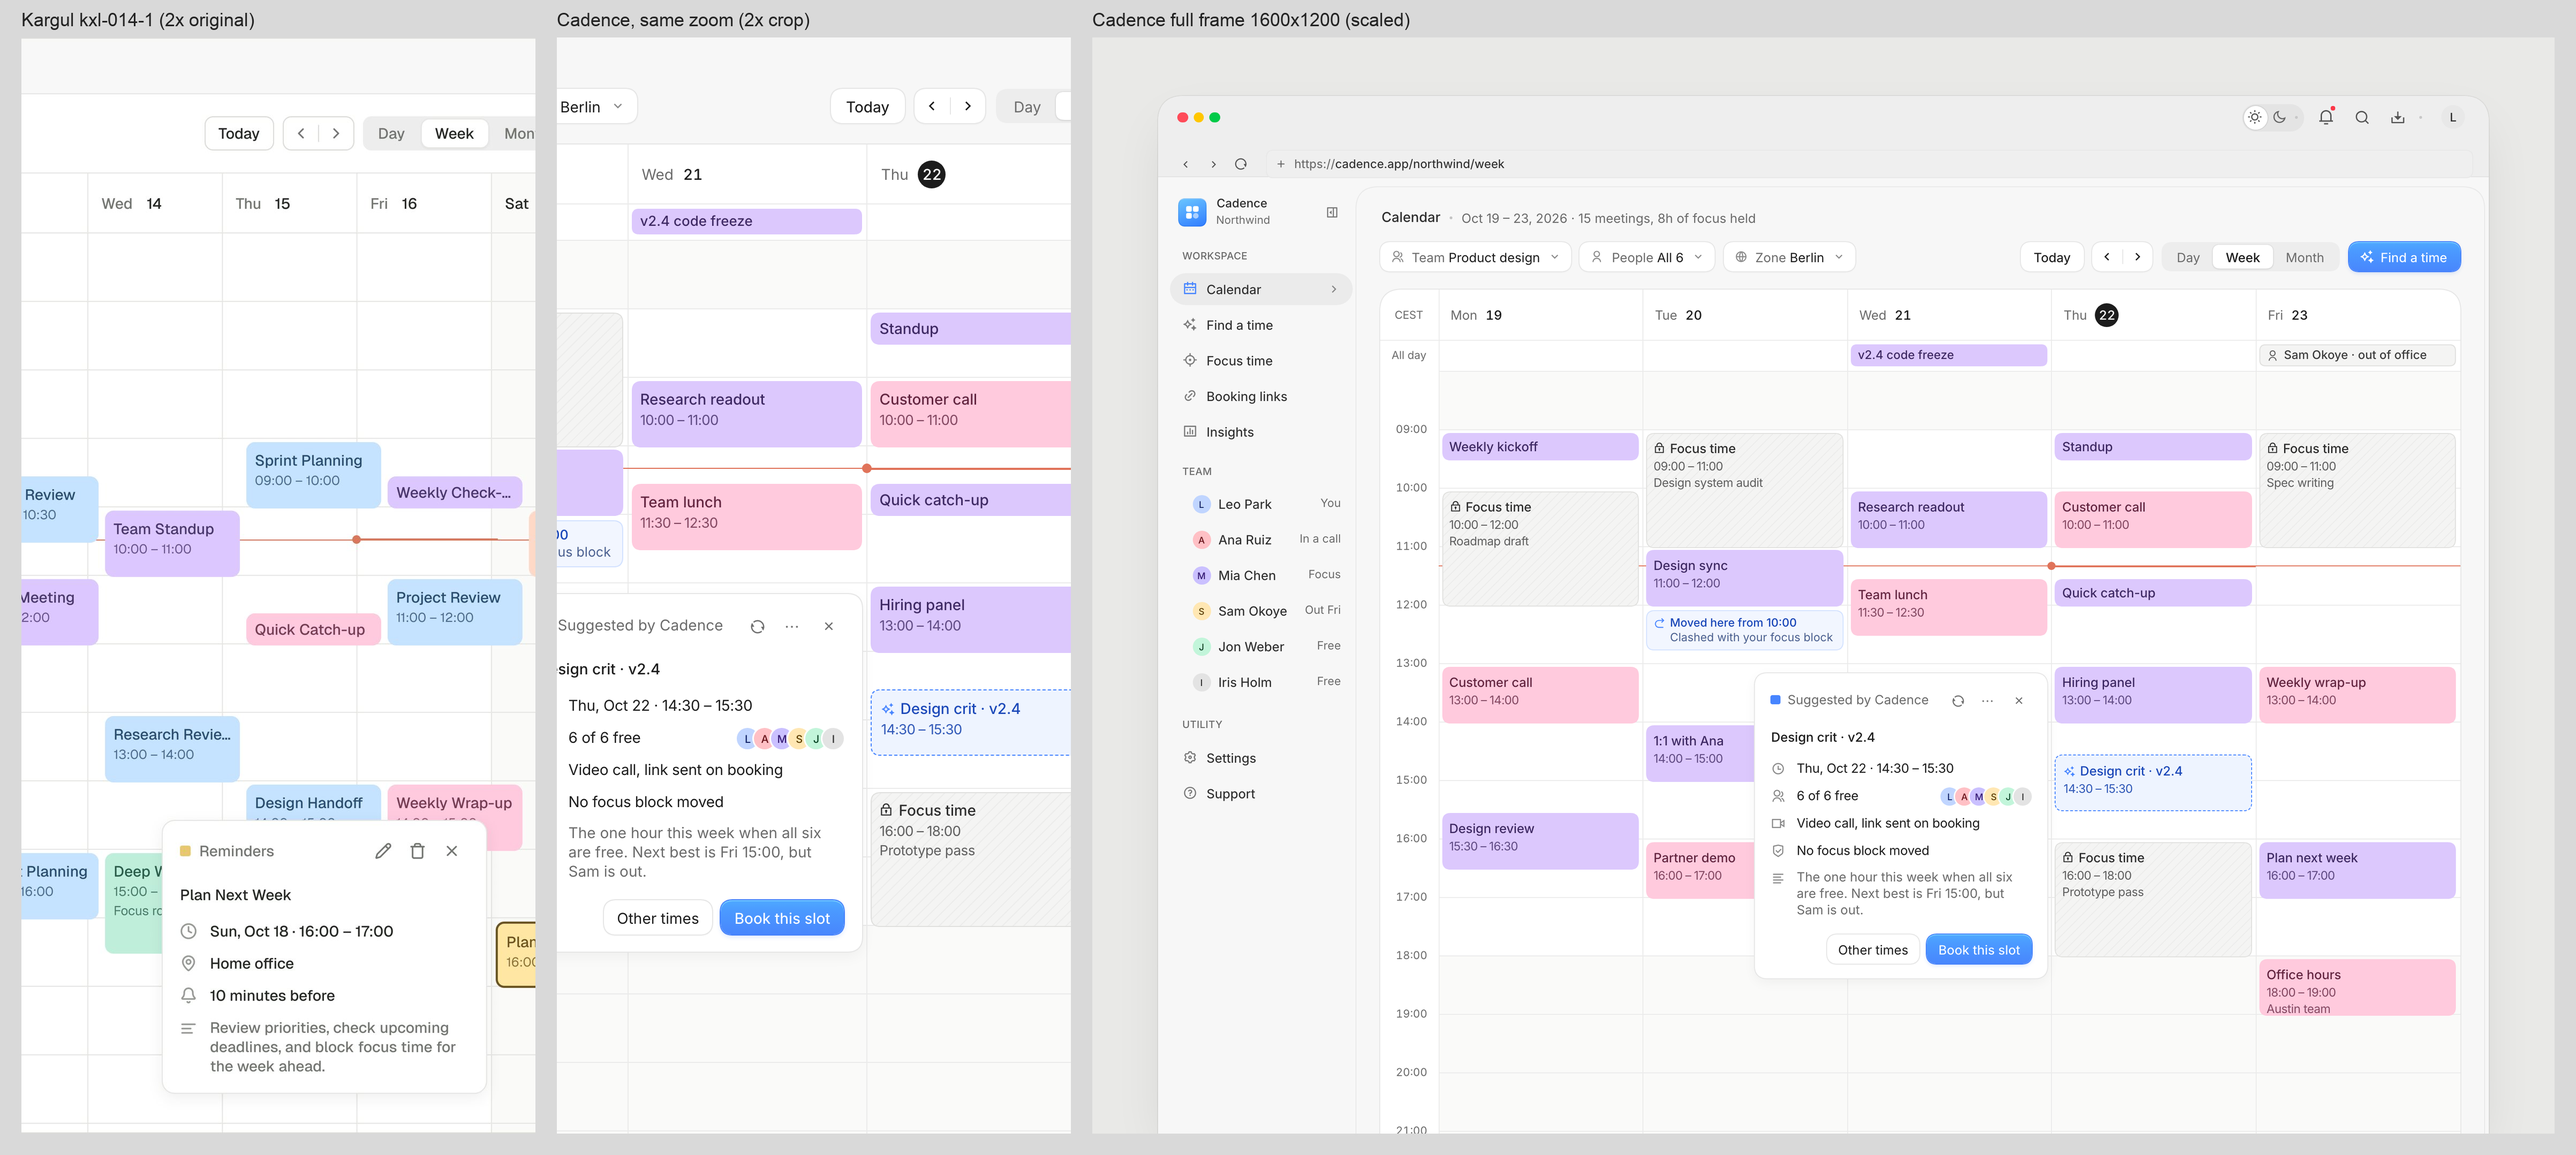
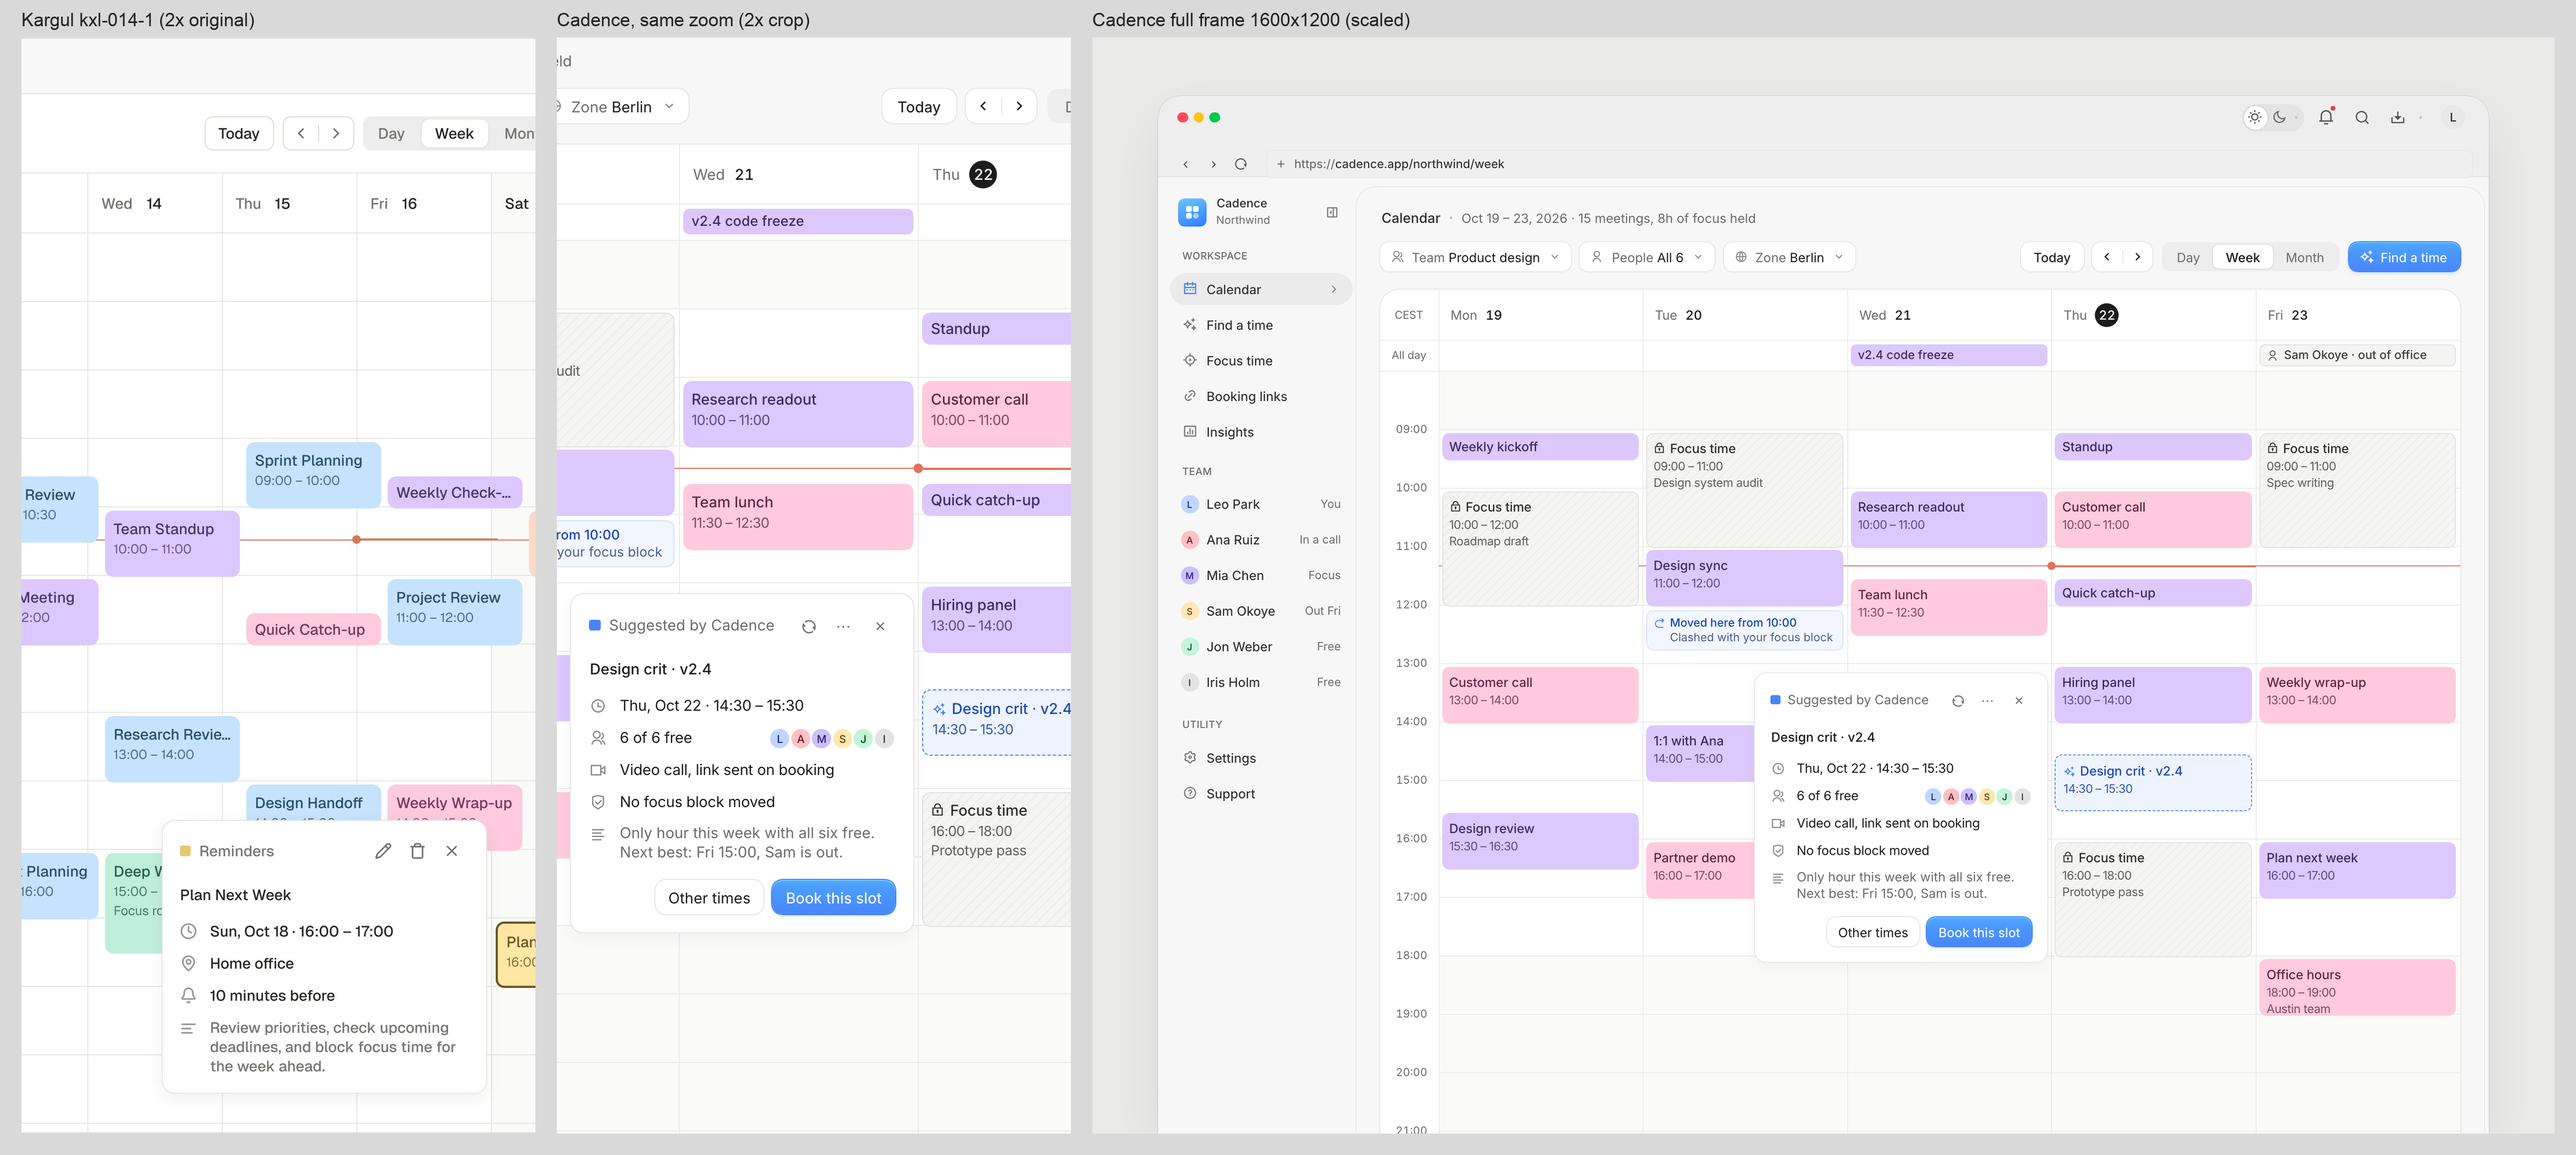
Cadence product screen in Marcel's week grammar: suggested Design crit with popover, focus hatch, moved-meeting note, evening filled and no popover overlaps; gate 0 FAIL

diff --git a/work/replicas/app/src/CadenceProductK.tsx b/work/replicas/app/src/CadenceProductK.tsx
@@ -47,8 +47,10 @@ const EVENTS: Ev[] = [
   // Tue 20
   { d: 1, h0: 9, h1: 11, kind: 'focus', title: 'Focus time', time: '09:00 – 11:00', extra: 'Design system audit' },
   { d: 1, h0: 11, h1: 12, kind: 'purple', title: 'Design sync', time: '11:00 – 12:00' },
-  { d: 1, h0: 14, h1: 15, kind: 'purple', title: '1:1 with Ana', time: '14:00 – 15:00' },
-  { d: 1, h0: 16, h1: 17, kind: 'pink', title: 'Partner demo', time: '16:00 – 17:00' },
+  { d: 1, h0: 18.5, h1: 19.5, kind: 'purple', title: '1:1 with Ana', time: '18:30 – 19:30' },
+  { d: 1, h0: 19.75, h1: 20.75, kind: 'pink', title: 'Partner demo', time: '19:45 – 20:45', extra: 'Sydney team' },
+  { d: 0, h0: 18.5, h1: 19.5, kind: 'pink', title: 'Investor update', time: '18:30 – 19:30' },
+  { d: 2, h0: 19, h1: 20, kind: 'purple', title: 'APAC sync', time: '19:00 – 20:00' },
   // Wed 21
   { d: 2, h0: 10, h1: 11, kind: 'purple', title: 'Research readout', time: '10:00 – 11:00' },
   { d: 2, h0: 11.5, h1: 12.5, kind: 'pink', title: 'Team lunch', time: '11:30 – 12:30' },
@@ -94,7 +96,7 @@ function Event({ e }: { e: Ev }) {
 }
 
 /* ---------------- controls (UniOps grammar) ---------------- */
-const ctl: CSSProperties = { ...row, height: 32, borderRadius: 12, background: '#fff', boxShadow: `0 0 0 1px ${RING}, 0 1px 2px rgba(0,0,0,.05)`, fontSize: 14, whiteSpace: 'nowrap', boxSizing: 'border-box', border: 0, color: INK, fontFamily: 'inherit' }
+const ctl: CSSProperties = { ...row, height: 32, borderRadius: 12, background: '#fff', boxShadow: `0 0 0 1px ${RING}, 0 1px 2px rgba(0,0,0,.05)`, fontSize: 14, whiteSpace: 'nowrap', boxSizing: 'border-box', border: 0, color: INK, fontFamily: 'inherit', cursor: 'pointer' }
 function Pill({ icon, label, value }: { icon: ReactNode; label: string; value: string }) {
   return (
     <button style={{ ...ctl, gap: 9, padding: '0 11px 0 12px' }}>
@@ -109,14 +111,14 @@ const Caps = ({ y, children }: { y: number; children: ReactNode }) => <div style
 function Nav({ y, icon, label, active }: { y: number; icon: typeof RiAddLine; label: string; active?: boolean }) {
   const I = icon
   return (
-    <a style={{ ...abs(13, y), ...row, width: 200, height: 35, boxSizing: 'border-box', padding: '0 13px 0 13.5px', gap: 10.5, borderRadius: 999, background: active ? '#ebebeb' : undefined, fontSize: 14, fontWeight: 450, color: '#2e2e2e', textDecoration: 'none' }}>
+    <a style={{ ...abs(13, y), ...row, width: 200, height: 35, boxSizing: 'border-box', padding: '0 13px 0 13.5px', gap: 10.5, borderRadius: 999, background: active ? '#ebebeb' : undefined, fontSize: 14, fontWeight: 450, color: '#2e2e2e', textDecoration: 'none', cursor: 'pointer' }}>
       <I size={16} color={active ? ACC : '#7a7a7a'} style={{ flex: 'none' }} />{label}
       {active && <RiArrowRightSLine size={15} color="#858585" style={{ marginLeft: 'auto' }} />}
     </a>
   )
 }
 const Face = ({ t, bg, fg, s = 20, ring }: { t: string; bg: string; fg: string; s?: number; ring?: boolean }) => (
-  <span style={{ display: 'grid', placeItems: 'center', flex: 'none', width: s, height: s, borderRadius: 999, background: bg, color: fg, fontSize: s * 0.5, fontWeight: 500, lineHeight: 1, boxShadow: ring ? '0 0 0 1.5px #fff' : undefined }}>{t}</span>
+  <span style={{ display: 'grid', placeItems: 'center', flex: 'none', width: s, height: s, borderRadius: 999, background: bg, color: fg, fontSize: Math.max(10, s * 0.5), fontWeight: 500, lineHeight: 1, boxShadow: ring ? '0 0 0 1.5px #fff' : undefined }}>{t}</span>
 )
 const PEOPLE: [string, string, string, string, string][] = [
   ['Leo Park', 'L', '#c0d5ff', '#122368', 'You'],
@@ -166,7 +168,7 @@ function Popover({ left, top }: { left: number; top: number }) {
     [RiShieldCheckLine, 'No focus block moved'],
   ]
   const Act = ({ x, I, s = 15, label }: { x: number; I: typeof RiAddLine; s?: number; label: string }) => (
-    <button aria-label={label} style={{ ...abs(x - (24 - s) / 2, 18), width: 24, height: 24, display: 'grid', placeItems: 'center', background: 'none', border: 0, padding: 0 }}><I size={s} color="#6f6f6f" /></button>
+    <button aria-label={label} style={{ ...abs(x - (24 - s) / 2, 18), width: 24, height: 24, display: 'grid', placeItems: 'center', background: 'none', border: 0, padding: 0, cursor: 'pointer' }}><I size={s} color="#6f6f6f" /></button>
   )
   return (
     <div role="dialog" aria-label="Suggested slot" style={{ ...abs(left, top), width: W, height: 316, borderRadius: 14.5, background: '#fff', boxShadow: `0 0 0 1px ${RING}, 0 4px 14px rgba(0,0,0,.05)` }}>
@@ -279,7 +281,7 @@ export default function CadenceProductK() {
         {/* main panel */}
         <section style={{ ...abs(216.5, 99.5), width: WW - 216.5 - 5.5, height: 1100, borderRadius: '25px 25px 0 0', background: BG, boxShadow: '0 0 0 1px #e9e9e9' }}>
           <div style={{ ...abs(28, 23.5), ...row, gap: 10, height: 20 }}>
-            <h1 style={{ margin: 0, fontSize: 15, lineHeight: '20px', fontWeight: 500, color: '#2f2f2f' }}>Calendar</h1>
+            <h1 style={{ margin: 0, fontSize: 15, lineHeight: '19px', fontWeight: 500, color: '#2f2f2f' }}>Calendar</h1>
             <span style={{ width: 3, height: 3, borderRadius: 9, background: '#c4c4c4' }} />
             <span style={{ fontSize: 14, color: SUB }}>Oct 19 – 23, 2026 · 15 meetings, 8h of focus held</span>
           </div>
@@ -291,14 +293,14 @@ export default function CadenceProductK() {
           <div style={{ ...abs(0, 60.5), right: 26, left: 'auto', ...row, gap: 9.5 }}>
             <button style={{ ...ctl, padding: '0 14px', fontWeight: 450 }}>Today</button>
             <div style={{ ...ctl, width: 66, justifyContent: 'space-between', padding: '0 0' }}>
-              <button aria-label="Previous week" style={{ width: 32, height: 32, display: 'grid', placeItems: 'center', background: 'none', border: 0, padding: 0 }}><RiArrowLeftSLine size={16} color="#1c1c1c" /></button>
+              <button aria-label="Previous week" style={{ width: 32, height: 32, display: 'grid', placeItems: 'center', background: 'none', border: 0, padding: 0, cursor: 'pointer' }}><RiArrowLeftSLine size={16} color="#1c1c1c" /></button>
               <span style={{ width: 1, height: 16, background: RING }} />
-              <button aria-label="Next week" style={{ width: 32, height: 32, display: 'grid', placeItems: 'center', background: 'none', border: 0, padding: 0 }}><RiArrowRightSLine size={16} color="#1c1c1c" /></button>
+              <button aria-label="Next week" style={{ width: 32, height: 32, display: 'grid', placeItems: 'center', background: 'none', border: 0, padding: 0, cursor: 'pointer' }}><RiArrowRightSLine size={16} color="#1c1c1c" /></button>
             </div>
             <div role="tablist" style={{ ...row, height: 32, boxSizing: 'border-box', padding: 3, borderRadius: 12, background: '#ededed', fontSize: 14 }}>
-              <button role="tab" style={{ height: 26, padding: '0 14px', border: 0, background: 'none', color: SUB, fontSize: 14, fontFamily: 'inherit' }}>Day</button>
-              <button role="tab" aria-selected style={{ height: 26, padding: '0 14px', border: 0, borderRadius: 8, background: '#fff', boxShadow: '0 0 0 1px rgba(0,0,0,.04), 0 1px 2px rgba(0,0,0,.06)', color: INK, fontWeight: 500, fontSize: 14, fontFamily: 'inherit', display: 'grid', placeItems: 'center' }}>Week</button>
-              <button role="tab" style={{ height: 26, padding: '0 14px', border: 0, background: 'none', color: SUB, fontSize: 14, fontFamily: 'inherit' }}>Month</button>
+              <button role="tab" style={{ height: 26, padding: '0 14px', border: 0, background: 'none', color: SUB, fontSize: 14, fontFamily: 'inherit', cursor: 'pointer' }}>Day</button>
+              <button role="tab" aria-selected style={{ height: 26, padding: '0 14px', border: 0, borderRadius: 8, background: '#fff', boxShadow: '0 0 0 1px rgba(0,0,0,.04), 0 1px 2px rgba(0,0,0,.06)', color: INK, fontWeight: 500, fontSize: 14, fontFamily: 'inherit', display: 'grid', placeItems: 'center', cursor: 'pointer' }}>Week</button>
+              <button role="tab" style={{ height: 26, padding: '0 14px', border: 0, background: 'none', color: SUB, fontSize: 14, fontFamily: 'inherit', cursor: 'pointer' }}>Month</button>
             </div>
             <button style={primary}><RiSparkling2Line size={16} color="#fff" />Find a time</button>
           </div>
